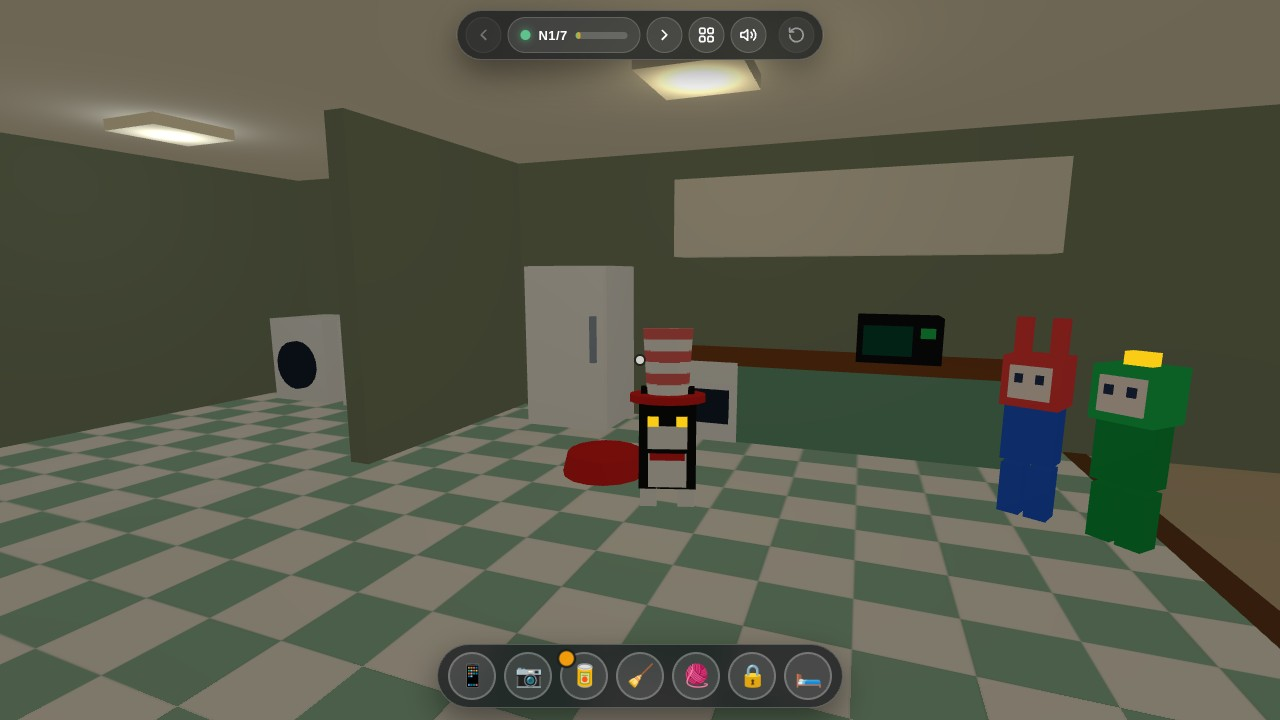
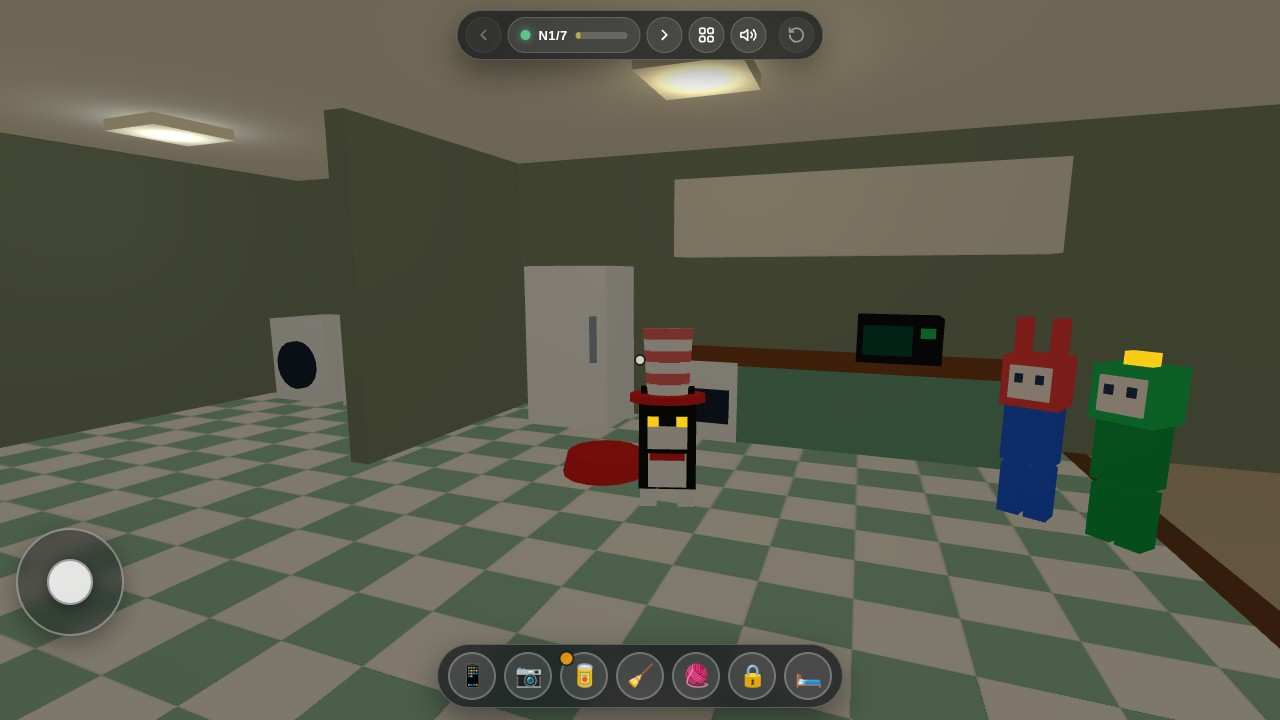
fix(controls): add multi-touch Roblox virtual walking thumbstick, tap-to-walk, and frame-rate independent movement

Changed region(s): [[0.0, 0.7333, 0.0938, 0.8861], [0.4375, 0.8861, 0.4688, 0.9472]]

diff --git a/js/main.js b/js/main.js
@@ -417,9 +417,63 @@ function syncAllUI() {
   renderPhone();
 }
 
-// 3D drag look + tap-to-interact raycasting
+const moveJoystick = document.getElementById("move-joystick");
+const joystickKnob = document.getElementById("joystick-knob");
+const joy = { active: false, pointerId: null, x: 0, y: 0, maxR: 34 };
+
+function updateJoystickFromEvent(e) {
+  const rect = moveJoystick.getBoundingClientRect();
+  const cx = rect.left + rect.width / 2;
+  const cy = rect.top + rect.height / 2;
+  let dx = e.clientX - cx;
+  let dy = e.clientY - cy;
+  const dist = Math.hypot(dx, dy);
+  if (dist > joy.maxR) {
+    dx = (dx / dist) * joy.maxR;
+    dy = (dy / dist) * joy.maxR;
+  }
+  joy.x = dx / joy.maxR;
+  joy.y = dy / joy.maxR;
+  joystickKnob.style.transform = `translate(${dx.toFixed(1)}px, ${dy.toFixed(1)}px)`;
+}
+
+function resetJoystick() {
+  joy.active = false;
+  joy.pointerId = null;
+  joy.x = 0;
+  joy.y = 0;
+  moveJoystick.classList.remove("active");
+  joystickKnob.style.transform = "translate(0px, 0px)";
+}
+
+moveJoystick.addEventListener("pointerdown", (e) => {
+  e.preventDefault();
+  e.stopPropagation();
+  moveJoystick.setPointerCapture?.(e.pointerId);
+  joy.active = true;
+  joy.pointerId = e.pointerId;
+  moveJoystick.classList.add("active");
+  updateJoystickFromEvent(e);
+});
+moveJoystick.addEventListener("pointermove", (e) => {
+  if (!joy.active || e.pointerId !== joy.pointerId) return;
+  e.preventDefault();
+  updateJoystickFromEvent(e);
+});
+moveJoystick.addEventListener("pointerup", (e) => {
+  if (e.pointerId === joy.pointerId) resetJoystick();
+});
+moveJoystick.addEventListener("pointercancel", (e) => {
+  if (e.pointerId === joy.pointerId) resetJoystick();
+});
+
+// 3D multi-touch drag look + tap-to-interact / tap-to-walk on floor
 canvas.addEventListener("pointerdown", (e) => {
+  if (drag.active && drag.pointerId !== e.pointerId) return;
+  e.preventDefault();
+  canvas.setPointerCapture?.(e.pointerId);
   drag.active = true;
+  drag.pointerId = e.pointerId;
   drag.moved = false;
   drag.startX = e.clientX;
   drag.startY = e.clientY;
@@ -428,32 +482,49 @@ canvas.addEventListener("pointerdown", (e) => {
 });
 
 canvas.addEventListener("pointermove", (e) => {
-  if (!drag.active) return;
+  if (!drag.active || e.pointerId !== drag.pointerId) return;
+  e.preventDefault();
   const dx = e.clientX - drag.lastX;
   const dy = e.clientY - drag.lastY;
   if (Math.hypot(e.clientX - drag.startX, e.clientY - drag.startY) > 6) {
     drag.moved = true;
   }
-  world.rotateLook(-dx * 0.005, -dy * 0.004);
+  world.rotateLook(-dx * 0.0055, -dy * 0.0045);
   drag.lastX = e.clientX;
   drag.lastY = e.clientY;
 });
 
 canvas.addEventListener("pointerup", (e) => {
-  if (drag.active && !drag.moved) {
-    const rect = canvas.getBoundingClientRect();
-    const ndcX = ((e.clientX - rect.left) / rect.width) * 2 - 1;
-    const ndcY = -((e.clientY - rect.top) / rect.height) * 2 + 1;
-    const hit = world.raycastInteract(ndcX, ndcY);
-    handleWorldInteract(hit);
+  if (drag.active && e.pointerId === drag.pointerId) {
+    if (!drag.moved) {
+      const rect = canvas.getBoundingClientRect();
+      const ndcX = ((e.clientX - rect.left) / rect.width) * 2 - 1;
+      const ndcY = -((e.clientY - rect.top) / rect.height) * 2 + 1;
+      const hit = world.raycastInteract(ndcX, ndcY);
+      if (hit) {
+        handleWorldInteract(hit);
+      } else {
+        world.walkToFloorTap(ndcX, ndcY);
+      }
+    }
+    drag.active = false;
+    drag.pointerId = null;
   }
-  drag.active = false;
 });
-canvas.addEventListener("pointercancel", () => { drag.active = false; });
+canvas.addEventListener("pointercancel", (e) => {
+  if (e.pointerId === drag.pointerId) {
+    drag.active = false;
+    drag.pointerId = null;
+  }
+});
 
-// Keyboard walking (WASD) + shortcuts
+// Keyboard walking (WASD / Arrow keys) + shortcuts
 window.addEventListener("keydown", (e) => {
-  keys.add(e.key.toLowerCase());
+  const k = e.key.toLowerCase();
+  if (["arrowup", "arrowdown", "arrowleft", "arrowright", " "].includes(k)) {
+    e.preventDefault();
+  }
+  keys.add(k);
   if (e.key === "Escape") {
     galleryOverlay.classList.add("hidden");
     resetModal.classList.add("hidden");
@@ -465,6 +536,7 @@ window.addEventListener("keydown", (e) => {
   }
 });
 window.addEventListener("keyup", (e) => keys.delete(e.key.toLowerCase()));
+window.addEventListener("blur", () => { keys.clear(); resetJoystick(); });
 window.addEventListener("resize", () => world.resize());
 window.addEventListener("beforeunload", () => world.dispose());
 
@@ -542,13 +614,28 @@ btnResetYes.addEventListener("click", () => {
   syncAllUI();
 });
 
-// Main 60fps render loop
+// Main frame-rate independent render loop (combines WASD/Arrows + virtual thumbstick + live room detection)
+let lastFrameTime = 0;
 function animate(time) {
-  const spd = 0.085;
-  if (keys.has("w") || keys.has("arrowup")) world.moveLocal(spd, 0);
-  if (keys.has("s") || keys.has("arrowdown")) world.moveLocal(-spd, 0);
-  if (keys.has("a") || keys.has("arrowleft")) world.moveLocal(0, -spd);
-  if (keys.has("d") || keys.has("arrowright")) world.moveLocal(0, spd);
+  const dt = lastFrameTime ? Math.min(0.06, Math.max(0.008, (time - lastFrameTime) / 1000)) : 0.016;
+  lastFrameTime = time;
+  const spd = dt * 5.6;
+  let fwd = 0;
+  let strafe = 0;
+  if (keys.has("w") || keys.has("arrowup")) fwd += 1;
+  if (keys.has("s") || keys.has("arrowdown")) fwd -= 1;
+  if (keys.has("a") || keys.has("arrowleft")) strafe -= 1;
+  if (keys.has("d") || keys.has("arrowright")) strafe += 1;
+  if (Math.abs(joy.x) > 0.08 || Math.abs(joy.y) > 0.08) {
+    fwd += -joy.y;
+    strafe += joy.x;
+  }
+  if (fwd !== 0 || strafe !== 0) {
+    const mag = Math.hypot(fwd, strafe);
+    const scale = mag > 1 ? 1 / mag : 1;
+    world.moveLocal(fwd * scale * spd, strafe * scale * spd);
+    state.currentRoom = world.detectRoomFromPos();
+  }
   world.syncState(state, time);
   requestAnimationFrame(animate);
 }
@@ -557,6 +644,7 @@ function animate(time) {
 window.__GAME__ = {
   isReady: () => ready,
   getState: () => state,
+  getCameraPose: () => world.getCameraPose(),
   goRoom: (id) => goRoom(id, true),
   selectNight: (idx) => {
     selectNight(state, idx);

diff --git a/js/world.js b/js/world.js
@@ -511,6 +511,43 @@ export class CatSittingWorld {
     this.camTargetPos.z = Math.max(-4.3, Math.min(15.5, this.camTargetPos.z + (fz * forward + rz * strafe)));
   }
 
+  walkToFloorTap(ndcX, ndcY) {
+    const ray = new THREE.Raycaster();
+    ray.setFromCamera({ x: ndcX, y: ndcY }, this.camera);
+    const floorPlane = new THREE.Plane(new THREE.Vector3(0, 1, 0), 0);
+    const hitPt = new THREE.Vector3();
+    if (ray.ray.intersectPlane(floorPlane, hitPt)) {
+      const dist = Math.hypot(hitPt.x - this.camPos.x, hitPt.z - this.camPos.z);
+      if (dist > 0.4 && dist < 18) {
+        this.camTargetPos.x = Math.max(-9.4, Math.min(10.4, hitPt.x));
+        this.camTargetPos.z = Math.max(-4.3, Math.min(15.5, hitPt.z));
+        return true;
+      }
+    }
+    return false;
+  }
+
+  detectRoomFromPos() {
+    const x = this.camPos.x;
+    const z = this.camPos.z;
+    if (z > 7.6) return "outside";
+    if (x < -4.8 && z > 3.2) return "bedroom";
+    if (x < -5.1 && z <= 3.2) return "laundry";
+    if (x > 3.1) return "living";
+    if (z > 3.2) return "hallway";
+    return "kitchen";
+  }
+
+  getCameraPose() {
+    return {
+      x: Number(this.camPos.x.toFixed(3)),
+      y: Number(this.camPos.y.toFixed(3)),
+      z: Number(this.camPos.z.toFixed(3)),
+      yaw: Number(this.yaw.toFixed(3)),
+      pitch: Number(this.pitch.toFixed(3)),
+    };
+  }
+
   raycastInteract(ndcX, ndcY) {
     const ray = new THREE.Raycaster();
     ray.setFromCamera({ x: ndcX, y: ndcY }, this.camera);
@@ -589,10 +626,10 @@ export class CatSittingWorld {
     this.catGroup.lookAt(this.camera.position.x, this.catGroup.position.y + 0.5, this.camera.position.z);
     this.catTail.rotation.y = Math.sin(time * 0.007) * 0.45;
 
-    // Smooth camera interpolation
-    this.camPos.lerp(this.camTargetPos, 0.12);
-    this.yaw += (this.targetYaw - this.yaw) * 0.16;
-    this.pitch += (this.targetPitch - this.pitch) * 0.16;
+    // Responsive camera interpolation
+    this.camPos.lerp(this.camTargetPos, 0.28);
+    this.yaw += (this.targetYaw - this.yaw) * 0.32;
+    this.pitch += (this.targetPitch - this.pitch) * 0.32;
     this.camera.position.copy(this.camPos);
     this.camera.rotation.order = "YXZ";
     this.camera.rotation.y = this.yaw;

diff --git a/css/style.css b/css/style.css
@@ -123,6 +123,46 @@ html, body {
   padding: 7px 10px;
 }
 
+/* Tactile Roblox-style virtual walking thumbstick (bottom-left) */
+.move-joystick {
+  position: fixed;
+  left: max(16px, env(safe-area-inset-left, 16px));
+  bottom: max(84px, calc(env(safe-area-inset-bottom, 12px) + 72px));
+  z-index: 28;
+  width: 108px;
+  height: 108px;
+  border-radius: 50%;
+  background: rgba(24, 28, 32, 0.45);
+  border: 2.5px solid rgba(255, 255, 255, 0.36);
+  backdrop-filter: blur(8px);
+  -webkit-backdrop-filter: blur(8px);
+  box-shadow: 0 8px 24px rgba(0, 0, 0, 0.35);
+  display: flex;
+  align-items: center;
+  justify-content: center;
+  touch-action: none;
+  cursor: pointer;
+}
+.move-joystick.active {
+  border-color: rgba(94, 194, 140, 0.9);
+  background: rgba(24, 28, 32, 0.62);
+}
+.joystick-knob {
+  width: 46px;
+  height: 46px;
+  border-radius: 50%;
+  background: rgba(255, 255, 255, 0.86);
+  border: 2px solid rgba(24, 28, 32, 0.35);
+  box-shadow: 0 4px 12px rgba(0, 0, 0, 0.35);
+  pointer-events: none;
+  transform: translate(0px, 0px);
+  transition: transform 0.08s ease-out;
+}
+.move-joystick.active .joystick-knob {
+  transition: none;
+  background: #ffffff;
+}
+
 .icon-btn {
   width: 36px;
   height: 36px;

diff --git a/index.html b/index.html
@@ -48,6 +48,11 @@
       </button>
     </header>
 
+    <!-- Tactile Roblox-style virtual thumbstick for iPad/mobile/mouse walking -->
+    <div id="move-joystick" class="move-joystick" role="application" aria-label="Walk joystick">
+      <div id="joystick-knob" class="joystick-knob"></div>
+    </div>
+
     <!-- Compact frosted floating bottom icon-only action hotbar -->
     <nav id="tool-pill" class="floating-pill" aria-label="Cat-sitting tools"></nav>
 

diff --git a/tests/e2e_verify.py b/tests/e2e_verify.py
@@ -132,6 +132,32 @@ def main():
         page.screenshot(path=shot1)
         Image.open(shot1).convert("RGB").save(os.path.join(ROOT, "screenshot.jpg"), quality=90, optimize=True)
 
+        # Verify virtual thumbstick walking + canvas drag-look + WASD actually move the 3D camera!
+        pose0 = page.evaluate("window.__GAME__.getCameraPose()")
+        joy_box = page.locator("#move-joystick").bounding_box()
+        assert joy_box is not None, "Virtual thumbstick missing"
+        jx, jy = joy_box["x"] + joy_box["width"] / 2, joy_box["y"] + joy_box["height"] / 2
+        page.mouse.move(jx, jy)
+        page.mouse.down()
+        page.mouse.move(jx, jy - 32, steps=5)
+        page.wait_for_timeout(320)
+        page.mouse.up()
+        pose1 = page.evaluate("window.__GAME__.getCameraPose()")
+        moved_dist = ((pose1["x"] - pose0["x"]) ** 2 + (pose1["z"] - pose0["z"]) ** 2) ** 0.5
+        assert moved_dist > 0.3, f"Virtual thumbstick did not move camera! {pose0} -> {pose1}"
+
+        # Verify canvas drag-look rotates camera yaw
+        page.mouse.move(640, 360)
+        page.mouse.down()
+        page.mouse.move(780, 340, steps=6)
+        page.mouse.up()
+        page.wait_for_timeout(200)
+        pose2 = page.evaluate("window.__GAME__.getCameraPose()")
+        assert abs(pose2["yaw"] - pose1["yaw"]) > 0.15, f"Canvas drag-look did not rotate yaw! {pose1} -> {pose2}"
+        print(f"[PASS] Movement verified: thumbstick walked {moved_dist:.2f}u, drag-look rotated yaw {pose1['yaw']:.2f} -> {pose2['yaw']:.2f}")
+        page.evaluate("window.__GAME__.goRoom('kitchen')")
+        page.wait_for_timeout(150)
+
         # Verify centered reset confirmation modal safety
         page.click("#btn-reset")
         assert page.locator("#reset-modal:not(.hidden)").count() == 1
